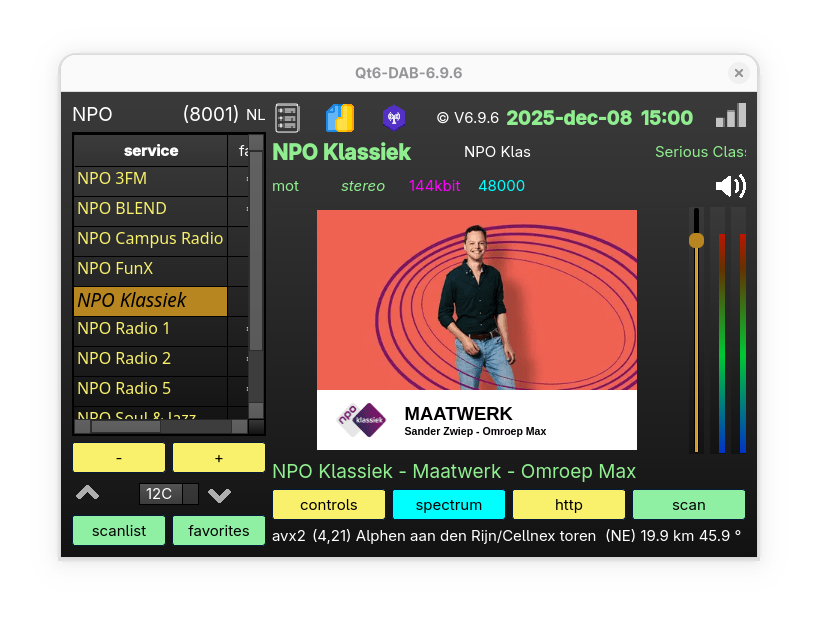
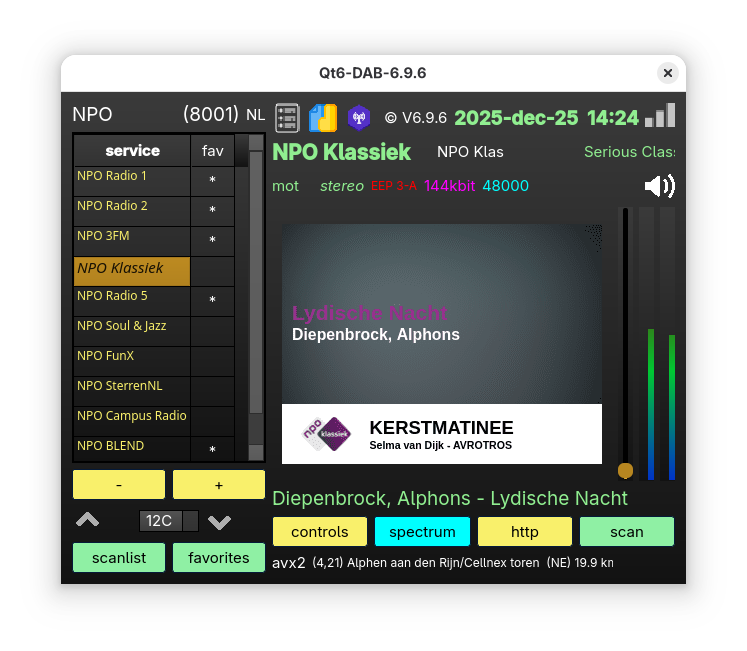
small edits

diff --git a/sources/main/radio.cpp b/sources/main/radio.cpp
@@ -2373,6 +2373,12 @@ void	RadioInterface::startAudioservice (audiodata &ad) {
 	programTypeLabel	-> setText (getProgramType (ad. programType));
 	rateLabel		-> setStyleSheet ("color:magenta");
 	rateLabel		-> setText (QString::number (ad. bitRate) + "kbit");
+	QString protL	= getProtectionLevel (ad. shortForm, ad. protLevel);
+	protectionLabel		-> setStyleSheet ("color:red");
+	QFont font		= protectionLabel -> font ();
+	font. setPointSize (9);
+	protectionLabel		-> setFont (font);
+	protectionLabel		-> setText (protL);
 //	show service related data
 	techWindow_p	-> showServiceData 	(&ad);
 }
@@ -2432,6 +2438,7 @@ void	RadioInterface::cleanScreen	() {
 	sbrLabel			-> setText ("");
 	audiorateLabel			-> setText ("");
 	rateLabel			-> setText ("");
+	protectionLabel			-> setText ("");
 
 	stereoSetting			= false;
 	setStereo	(false);
@@ -4021,15 +4028,16 @@ void	RadioInterface::show_tiiData	(QVector<tiiData> r, int ind) {
 	   else {
 //	first copy the db data, theTransmitter is properly initalized
 //	with the db Values, now the dynamics
-//	we just check on the ensemblename
-	      if (!configHandler_p -> get_allTIISelector () &&
-	         (theTransmitter. ensemble. trimmed () !=
-	                          channel. ensembleName. trimmed ()))
-	         continue;	
-	      else
-	         theTransmitter. valid	=
-	                  theTransmitter. ensemble. trimmed () ==
-	                                   channel. ensembleName. trimmed ();
+//	we  could just check on the ensemblename, however,
+//	the name in the database is not always equal to the ensemblename
+//	      if (!configHandler_p -> get_allTIISelector () &&
+//	         (theTransmitter. ensemble. trimmed () !=
+//	                          channel. ensembleName. trimmed ()))
+//	         continue;	
+//	      else
+//	         theTransmitter. valid	=
+//	                  theTransmitter. ensemble. trimmed () ==
+//	                                   channel. ensembleName. trimmed ();
 	      position thePosition;
 	      thePosition. latitude     = theTransmitter. latitude;
 	      thePosition. longitude    = theTransmitter. longitude;
@@ -4041,6 +4049,7 @@ void	RadioInterface::show_tiiData	(QVector<tiiData> r, int ind) {
 	      theTransmitter. collision	= r [i]. collision;
 	      theTransmitter. pattern	= r [i]. pattern;
 	      theTransmitter. isStrongest	= false;
+	      theTransmitter. valid	= true;
 	      channel. transmitters. push_back (theTransmitter);	
 	   }
 	   if (dxMode)
